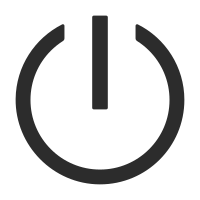
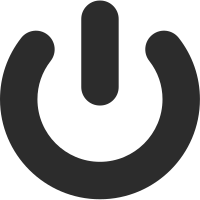
* 替换部分按钮的图标 * 去除 HCI 中串口自动重连的功能，改为用户自己决定和操作

diff --git a/hci.py b/hci.py
@@ -18,13 +18,10 @@ class Hci():
         self.slip = slip.Slip()
         self.send_seq = 0
         self.recv_seq = -1
-        self.ctrl_q = queue.Queue()
         self.send_q = queue.Queue()
         self.recv_q = queue.Queue()
         self.on_event = on_event
-        self.online = False
-        self.th = threading.Thread(target=self.daemon, daemon=True)
-        self.th.start()
+        self.forceThreadExit = False
 
     def write(self, _data):
         self.send_q.put(_data)
@@ -32,55 +29,34 @@ class Hci():
     def read(self):
         return self.recv_q.get()
 
-    def try_open(self):
-        if self.comport == None:
-            return
-        if self.comport not in self.slip.portlist():
-            self.ctrl_q.put(self.try_open)
-            return
-        self.slip.open(self.comport)
-        self.online = True
-        self.on_event("resume", self.comport)
-
     def daemon(self):
         # it's a daemon thread, only it has the right to access comport.
         # user's operation is pushed into queue, poped by this thread
         # and is excuted one-by-one.
         while True:
             try:
-                # do control
-                if self.ctrl_q.qsize() > 0:
-                    ctrl = self.ctrl_q.get()
-                    ctrl()
-                # not online, continue
-                if self.online != True:
-                    # sleep at here to reduce cpu cosumption
-                    time.sleep(0.1)
-                    continue
                 # do send
                 if self.send_q.qsize() > 0:
                     self.output(self.send_q.get())
                 # do recv
                 self.yield_until(HCI_DATA, 10)
+                if self.forceThreadExit == True:
+                    break
             except serial.SerialException as e:
                 self.slip.close()
-                self.online = False
-                self.ctrl_q.put(self.try_open)
-                self.on_event("close", e)
+                self.on_event("serial", e)
+                break
 
     def open(self, comport):
-        def _open():
-            self.comport = comport
-            self.slip.open(comport)
-            self.online = True
-        self.ctrl_q.put(_open)
+        self.slip.open(comport)
+        self.th = threading.Thread(target=self.daemon, daemon=True)
+        self.th.start()
 
     def close(self):
-        def _close():
-            self.slip.close()
-            self.comport = None
-            self.online = False
-        self.ctrl_q.put(_close)
+        self.forceThreadExit = True
+        self.th.join()
+        self.forceThreadExit = False
+        self.slip.close()
 
     def send_data(self, frame, retry):
         retry = 3
@@ -119,7 +95,7 @@ class Hci():
             # no frame, continue
             if frame == b'':
                 continue
-            
+
             # got a frame
             # cut type, seq, data and crc from frame
             _type, _seq, _data, _crc = frame[0], frame[1], frame[2:-2], frame[-2:]
@@ -150,9 +126,10 @@ class Hci():
             # return true if we got a expect type
             if _type == expect_type:
                 return True
-        
+
         # return false if timeout
         return False
+
 
 if __name__ == "__main__":
 

diff --git a/worker.py b/worker.py
@@ -13,6 +13,7 @@ class Worker(QThread):
     signalCmdWindow = pyqtSignal(QWidget)
     signalSerialComboBox = pyqtSignal(list)
     signalLogList = pyqtSignal(str)
+    signalSerialException = pyqtSignal(str)
 
     def __init__(self, mainWindow):
         super(Worker, self).__init__()
@@ -22,15 +23,13 @@ class Worker(QThread):
         self.hci = Hci(self.onHciEvent)
         # Signals
         self.mainWindow.tree.clicked.connect(self.onTreeClicked)
-        self.mainWindow.buttonRefreshSerialList.clicked.connect(
-            self.refreshSerialList)
+        self.mainWindow.buttonRefreshSerialList.clicked.connect(self.refreshSerialList)
         self.mainWindow.buttonSendCommand.clicked.connect(self.sendCommand)
-        self.mainWindow.buttonOpenCloseSerial.clicked.connect(
-            self.openCloseSerial)
-        self.signalCmdWindow.connect(
-            lambda x: self.mainWindow.scrollCmd.setWidget(x))
+        self.mainWindow.buttonOpenCloseSerial.clicked.connect(self.openCloseSerial)
+        self.signalCmdWindow.connect(lambda x: self.mainWindow.scrollCmd.setWidget(x))
         self.signalSerialComboBox.connect(self.setSerialComboBoxItems)
         self.signalLogList.connect(self.addLogListItem)
+        self.signalSerialException.connect(self.SerialExceptionHandler)
         # Command Widgets
         self.cmdObjDict = {}
         self.curCmdName = ''
@@ -75,19 +74,29 @@ class Worker(QThread):
 
     def openCloseSerial(self):
         if self.mainWindow.buttonOpenCloseSerial.toolTip() == 'Open Serial':
-            self.hci.open(self.mainWindow.combox_serial.currentText())
-            self.mainWindow.buttonOpenCloseSerial.setIcon(
-                QIcon("resources/opened.png"))
+            try:
+                self.hci.open(self.mainWindow.combox_serial.currentText())
+            except Exception as e:
+                QMessageBox.warning(self.mainWindow, '', 'Open Serial Failed!\n\n%s' % (e), QMessageBox.Yes, QMessageBox.Yes)
+            self.mainWindow.buttonOpenCloseSerial.setIcon(QIcon("resources/opened.png"))
             self.mainWindow.buttonOpenCloseSerial.setToolTip('Close Serial')
         else:
             self.hci.close()
-            self.mainWindow.buttonOpenCloseSerial.setIcon(
-                QIcon("resources/closed.png"))
+            self.mainWindow.buttonOpenCloseSerial.setIcon(QIcon("resources/closed.png"))
             self.mainWindow.buttonOpenCloseSerial.setToolTip('Open Serial')
 
     def addLogListItem(self, text):
         self.mainWindow.listLog.addItem(text)
         self.mainWindow.listLog.scrollToBottom()
 
+    def SerialExceptionHandler(self, text):
+        QMessageBox.warning(self.mainWindow, '', text, QMessageBox.Yes, QMessageBox.Yes)
+        self.mainWindow.buttonOpenCloseSerial.setIcon(QIcon("resources/closed.png"))
+        self.mainWindow.buttonOpenCloseSerial.setToolTip('Open Serial')
+        self.refreshSerialList()
+
     def onHciEvent(self, evt, val):
         print('event=%s, value=%s' % (evt, val))
+        if evt == 'serial':
+            self.signalSerialException.emit('Serial Exception!\n\n%s' % (val))
+
